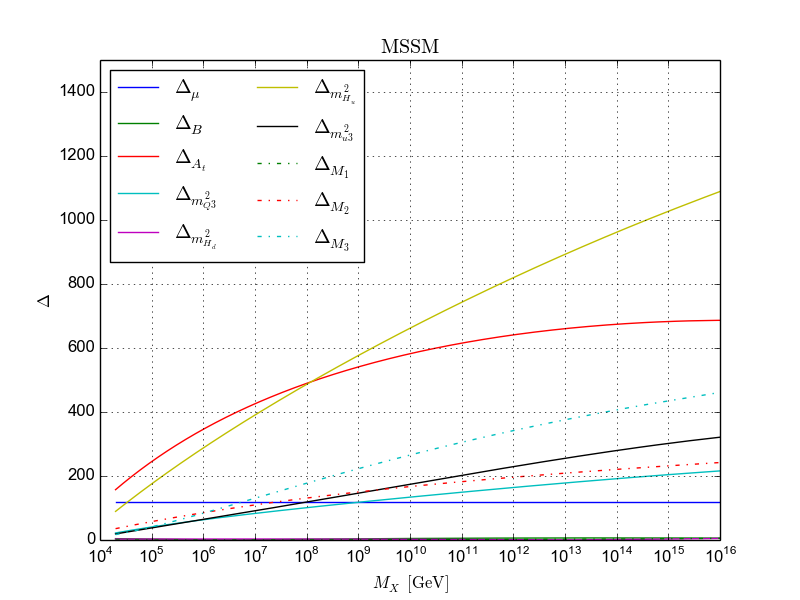
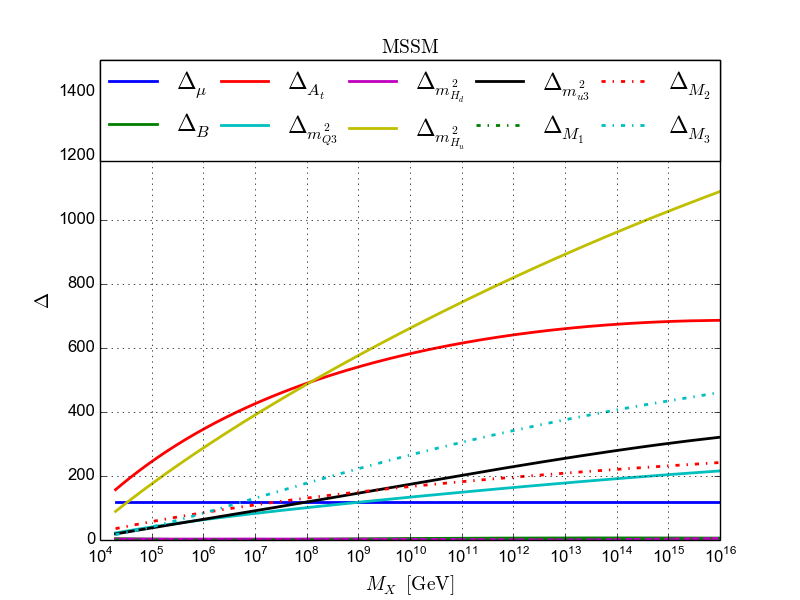
Added plots with thicker lines and larger labels to the paper, labels probably still have to be a bit bigger to be legible

diff --git a/paper/e6ssm-tuning-paper.tex b/paper/e6ssm-tuning-paper.tex
@@ -981,14 +981,14 @@ differences in the tuning between the two models.
 \begin{figure}
 \begin{center}
 \resizebox{!}{5.5cm}{%
-\includegraphics{e6ssm_mssm_cutoff_scan_3_points_tuning_plot.png}} 
+\includegraphics{e6ssm_mssm_cutoff_scan_all_benchmark_points_tuning_vs_cutoff.png}} 
 \resizebox{!}{5.5cm}{%
 \includegraphics{mssm_cutoff_scan_tb10_fixed_at_ms_all_tuning_data.png}} 
 \\
 \resizebox{!}{5.5cm}{%
-\includegraphics{e6ssm_light_zprime_cutoff_scan_tb10_fixed_at_ms_all_tuning_data.png}}
+\includegraphics{e6ssm_light_zprime_cutoff_scan_tb10_BM1_all_tuning_data.png}}
 \resizebox{!}{5.5cm}{%
-\includegraphics{e6ssm_light_zprime_cutoff_scan_tb10_fixed_at_ms_mssm_mixing_small_M3_all_tuning_data.png}}%%
+\includegraphics{e6ssm_light_zprime_cutoff_scan_tb10_BM2_all_tuning_data.png}}%%
 \caption{{\it Top left panel:} Scatter plot of fine tuning vs high scale $M_X$ for the three benchmark points given in (?).  {\it Top right panel:}  Individual sensitivites of the MSSM benchmark plotted against the high scale $M_X$ which give an overall tuning shown by the green line in top left panel.  {\it Bottom left panel:} Individual sensitivites of E6SSM BM1 plotted against the high scale $M_X$ which give an overall tuning shown by the blue line in top left panel.  {\it Bottom right panel:} Individual sensitivites of E6SSM BM2 plotted against the high scale $M_X$ which give an overall tuning shown by the red line in top left panel.    }
 \label{Fig:BMs-varyMX}
 \end{center}
